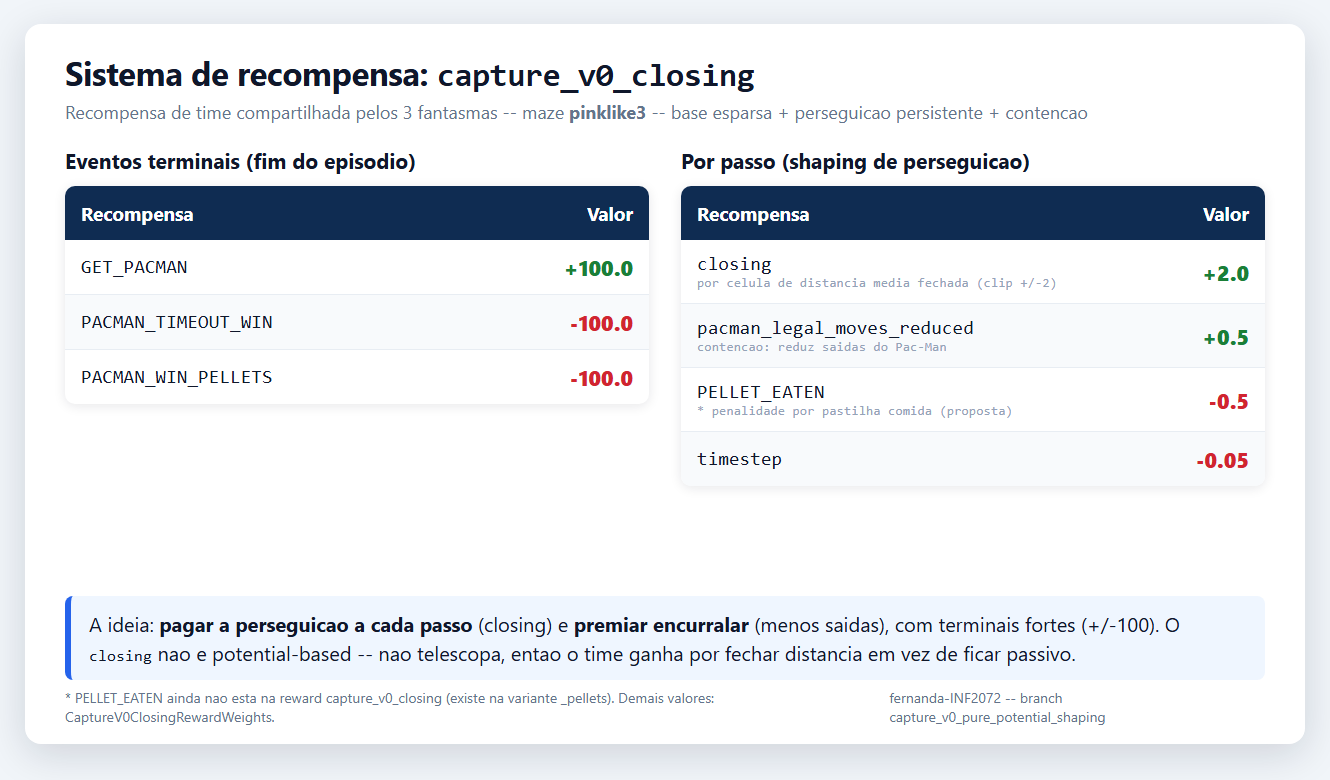
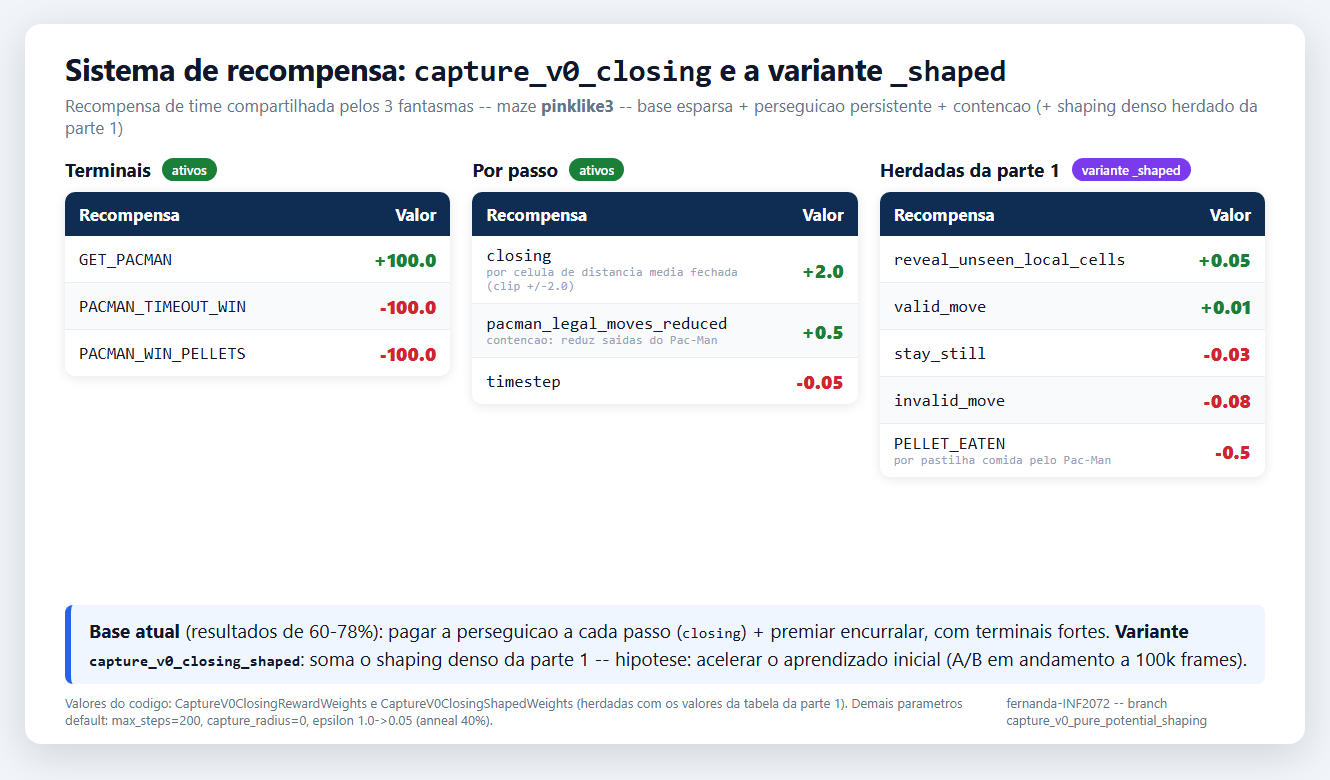
feat(rewards): capture_v0_closing_shaped variant + reward-table slide update
New A/B variant over capture_v0_closing that adds the part-1 dense shaping
terms with the part-1 table values: valid_move +0.01, invalid_move -0.08,
stay_still -0.03, reveal_unseen_local_cells +0.05, and per-pellet PELLET_EATEN
-0.5. Closing/containment/terminal weights identical to the base so the A/B
isolates the added shaping. Registered as reward id capture_v0_closing_shaped.
Verified: strategy loads, all new terms fire in a random episode, 124 tests pass.

Slide 000055 reworked to three columns: active terminal + per-step terms of the
current system, plus the inherited part-1 terms tagged as the _shaped variant;
scenario defaults (max_steps, capture_radius, epsilon) in the footer.

diff --git a/_output/communication/2026-07-02/communication-000055-reward-table-slide.html b/_output/communication/2026-07-02/communication-000055-reward-table-slide.html
@@ -3,33 +3,36 @@
 <head>
 <meta charset="utf-8">
 <meta name="viewport" content="width=device-width, initial-scale=1">
-<title>Sistema de recompensa -- capture_v0_closing</title>
+<title>Sistema de recompensa -- capture_v0_closing (+shaped)</title>
 <style>
   :root { color-scheme: light; }
   html,body { margin:0; background:#f1f5f9; font-family:'Segoe UI',system-ui,Arial,sans-serif; color:#0f172a; }
   .slide { width:1280px; height:720px; margin:24px auto; background:#fff; border-radius:16px;
            box-shadow:0 10px 40px rgba(15,23,42,.15); position:relative; overflow:hidden; }
-  .hdr { padding:26px 40px 0 40px; }
-  h1 { margin:0; font-size:33px; letter-spacing:-.5px; }
-  .sub { margin:6px 0 0; font-size:18px; color:#64748b; }
-  .cols { display:flex; gap:32px; padding:22px 40px 0; }
+  .hdr { padding:24px 40px 0 40px; }
+  h1 { margin:0; font-size:31px; letter-spacing:-.5px; }
+  .sub { margin:5px 0 0; font-size:17px; color:#64748b; }
+  .cols { display:flex; gap:22px; padding:18px 40px 0; align-items:flex-start; }
   .col { flex:1; }
-  .col h2 { margin:0 0 12px; font-size:21px; }
-  table { width:100%; border-collapse:collapse; font-size:21px; border-radius:10px; overflow:hidden;
+  .col h2 { margin:0 0 10px; font-size:19px; }
+  .col h2 .tag { font-size:13px; font-weight:600; color:#fff; border-radius:20px; padding:3px 10px; vertical-align:2px; margin-left:6px; }
+  .tag.on  { background:#1a7f37; }
+  .tag.new { background:#7c3aed; }
+  table { width:100%; border-collapse:collapse; font-size:19px; border-radius:10px; overflow:hidden;
           box-shadow:0 2px 12px rgba(15,23,42,.10); }
-  thead th { background:#0f2c52; color:#fff; font-weight:700; font-size:19px; padding:14px 16px; text-align:left; }
+  thead th { background:#0f2c52; color:#fff; font-weight:700; font-size:17px; padding:11px 14px; text-align:left; }
   thead th.v { text-align:right; }
-  td { padding:13px 16px; border-bottom:1px solid #e8edf3; }
+  td { padding:10px 14px; border-bottom:1px solid #e8edf3; }
   tbody tr:nth-child(even) { background:#f8fafc; }
   tbody tr:last-child td { border-bottom:none; }
-  .name { font-family:'Consolas','Courier New',monospace; font-size:19px; letter-spacing:.2px; }
+  .name { font-family:'Consolas','Courier New',monospace; font-size:16.5px; letter-spacing:.2px; }
   .val { text-align:right; font-weight:800; font-variant-numeric:tabular-nums; white-space:nowrap; }
   .pos { color:#1a7f37; }
   .neg { color:#d1242f; }
-  .note { font-size:13px; color:#94a3b8; display:block; }
-  .insight { position:absolute; left:40px; right:40px; bottom:64px; font-size:20px; line-height:1.45;
-             background:#eff6ff; border-left:6px solid #2563eb; padding:13px 18px; border-radius:8px; }
-  .foot { position:absolute; left:40px; right:40px; bottom:18px; font-size:14px; color:#64748b;
+  .note { font-size:12px; color:#94a3b8; display:block; }
+  .insight { position:absolute; left:40px; right:40px; bottom:60px; font-size:19px; line-height:1.42;
+             background:#eff6ff; border-left:6px solid #2563eb; padding:12px 18px; border-radius:8px; }
+  .foot { position:absolute; left:40px; right:40px; bottom:16px; font-size:13px; color:#64748b;
           display:flex; justify-content:space-between; }
   @media print { body{background:#fff} .slide{box-shadow:none;margin:0} }
 </style>
@@ -37,12 +40,12 @@
 <body>
   <div class="slide">
     <div class="hdr">
-      <h1>Sistema de recompensa: <span style="font-family:Consolas,monospace">capture_v0_closing</span></h1>
-      <p class="sub">Recompensa de time compartilhada pelos 3 fantasmas -- maze <b>pinklike3</b> -- base esparsa + perseguicao persistente + contencao</p>
+      <h1>Sistema de recompensa: <span style="font-family:Consolas,monospace">capture_v0_closing</span> e a variante <span style="font-family:Consolas,monospace">_shaped</span></h1>
+      <p class="sub">Recompensa de time compartilhada pelos 3 fantasmas -- maze <b>pinklike3</b> -- base esparsa + perseguicao persistente + contencao (+ shaping denso herdado da parte 1)</p>
     </div>
     <div class="cols">
       <div class="col">
-        <h2>Eventos terminais (fim do episodio)</h2>
+        <h2>Terminais <span class="tag on">ativos</span></h2>
         <table>
           <thead><tr><th>Recompensa</th><th class="v">Valor</th></tr></thead>
           <tbody>
@@ -53,23 +56,36 @@
         </table>
       </div>
       <div class="col">
-        <h2>Por passo (shaping de perseguicao)</h2>
+        <h2>Por passo <span class="tag on">ativos</span></h2>
         <table>
           <thead><tr><th>Recompensa</th><th class="v">Valor</th></tr></thead>
           <tbody>
-            <tr><td class="name">closing <span class="note">por celula de distancia media fechada (clip +/-2)</span></td><td class="val pos">+2.0</td></tr>
+            <tr><td class="name">closing <span class="note">por celula de distancia media fechada (clip +/-2.0)</span></td><td class="val pos">+2.0</td></tr>
             <tr><td class="name">pacman_legal_moves_reduced <span class="note">contencao: reduz saidas do Pac-Man</span></td><td class="val pos">+0.5</td></tr>
-            <tr><td class="name">PELLET_EATEN <span class="note">* penalidade por pastilha comida (proposta)</span></td><td class="val neg">-0.5</td></tr>
             <tr><td class="name">timestep</td><td class="val neg">-0.05</td></tr>
+          </tbody>
+        </table>
+      </div>
+      <div class="col">
+        <h2>Herdadas da parte 1 <span class="tag new">variante _shaped</span></h2>
+        <table>
+          <thead><tr><th>Recompensa</th><th class="v">Valor</th></tr></thead>
+          <tbody>
+            <tr><td class="name">reveal_unseen_local_cells</td><td class="val pos">+0.05</td></tr>
+            <tr><td class="name">valid_move</td><td class="val pos">+0.01</td></tr>
+            <tr><td class="name">stay_still</td><td class="val neg">-0.03</td></tr>
+            <tr><td class="name">invalid_move</td><td class="val neg">-0.08</td></tr>
+            <tr><td class="name">PELLET_EATEN <span class="note">por pastilha comida pelo Pac-Man</span></td><td class="val neg">-0.5</td></tr>
           </tbody>
         </table>
       </div>
     </div>
     <div class="insight">
-      A ideia: <b>pagar a perseguicao a cada passo</b> (closing) e <b>premiar encurralar</b> (menos saidas), com terminais fortes (+/-100). O <span class="name" style="font-size:16px">closing</span> nao e potential-based -- nao telescopa, entao o time ganha por fechar distancia em vez de ficar passivo.
+      <b>Base atual</b> (resultados de 60-78%): pagar a perseguicao a cada passo (<span class="name" style="font-size:15px">closing</span>) + premiar encurralar, com terminais fortes.
+      <b>Variante <span class="name" style="font-size:15px">capture_v0_closing_shaped</span></b>: soma o shaping denso da parte 1 -- hipotese: acelerar o aprendizado inicial (A/B em andamento a 100k frames).
     </div>
     <div class="foot">
-      <span>* PELLET_EATEN ainda nao esta na reward capture_v0_closing (existe na variante _pellets). Demais valores: CaptureV0ClosingRewardWeights.</span>
+      <span>Valores do codigo: CaptureV0ClosingRewardWeights e CaptureV0ClosingShapedWeights (herdadas com os valores da tabela da parte 1). Demais parametros default: max_steps=200, capture_radius=0, epsilon 1.0->0.05 (anneal 40%).</span>
       <span>fernanda-INF2072 -- branch capture_v0_pure_potential_shaping</span>
     </div>
   </div>

diff --git a/custom_environment/env/rewards/current.py b/custom_environment/env/rewards/current.py
@@ -992,6 +992,90 @@ class CaptureV0ClosingReward(CaptureV0Reward):
             terms.append(RewardTerm("PACMAN_WIN_PALLETS", w.pacman_win_pellets, "terminal"))
 
         return RewardResult(tuple(terms))
+
+
+@dataclass(frozen=True, slots=True)
+class CaptureV0ClosingShapedWeights:
+    # Base closing terms: identical to CaptureV0ClosingRewardWeights so the A/B
+    # against capture_v0_closing isolates the added movement/perception shaping.
+    get_pacman: float = 100.0
+    pacman_timeout_win: float = -100.0
+    pacman_win_pellets: float = -100.0
+    timestep: float = -0.05
+    closing_weight: float = 2.0
+    closing_clip: float = 2.0
+    pacman_legal_moves_reduced: float = 0.5
+    # Movement/perception shaping (values from the part-1 reward table).
+    valid_move: float = 0.01
+    invalid_move: float = -0.08
+    stay_still: float = -0.03
+    reveal_unseen_local_cells: float = 0.05
+    # Per-pellet penalty: charge the team every pellet Pacman eats, giving a
+    # dense urgency signal long before the terminal PACMAN_WIN_PALLETS fires.
+    pellet_eaten: float = -0.5
+
+
+class CaptureV0ClosingShaped(CaptureV0ClosingReward):
+    """capture_v0_closing + dense movement/perception shaping.
+
+    A/B variant over ``CaptureV0ClosingReward`` (identical closing/containment/
+    terminal weights) that adds the early-learning shaping terms from the part-1
+    reward design: per-ghost ``valid_move``/``invalid_move``/``stay_still``,
+    ``reveal_unseen_local_cells`` (exploration), and a per-pellet ``PELLET_EATEN``
+    penalty. Hypothesis: the dense per-step signal accelerates initial learning
+    (sample efficiency at ~100k frames) before the closing reward takes over.
+    """
+
+    strategy_id = "capture_v0_closing_shaped"
+
+    def __init__(
+        self,
+        weights: CaptureV0ClosingShapedWeights | None = None,
+    ) -> None:
+        super().__init__()
+        self.weights = weights or CaptureV0ClosingShapedWeights()
+        # State for _reveals_unseen_cells (the CaptureV0* chain does not init it).
+        self._seen_local_cells: dict[str, set[Position]] = {}
+
+    def reset(self, initial_context: RewardContext) -> None:
+        super().reset(initial_context)
+        self._seen_local_cells = {
+            ghost.ghost_id: self._local_cells(
+                ghost.current_position,
+                initial_context.ghost_view_radius,
+            )
+            for ghost in initial_context.ghosts
+        }
+
+    def compute(self, context: RewardContext) -> RewardResult:
+        result = super().compute(context)
+        w = self.weights
+        terms = list(result.terms)
+
+        for ghost in context.ghosts:
+            moved = ghost.previous_position != ghost.current_position
+            if not moved:
+                if ghost.invalid_move:
+                    terms.append(RewardTerm("invalid_move", w.invalid_move))
+                else:
+                    terms.append(RewardTerm("stay_still", w.stay_still))
+            else:
+                terms.append(RewardTerm("valid_move", w.valid_move))
+            if self._reveals_unseen_cells(ghost, context.ghost_view_radius):
+                terms.append(
+                    RewardTerm(
+                        "reveal_unseen_local_cells",
+                        w.reveal_unseen_local_cells,
+                    )
+                )
+
+        pellets = context.pellets_eaten_this_step
+        if pellets > 0:
+            terms.append(RewardTerm("PELLET_EATEN", w.pellet_eaten * pellets))
+
+        return RewardResult(tuple(terms))
+
+
 class CaptureV0PurePotentialShapingPellets(CaptureV0PurePotentialShaping):
     """Pure potential shaping variant with a per-pellet Pacman penalty."""
 

diff --git a/custom_environment/env/rewards/loader.py b/custom_environment/env/rewards/loader.py
@@ -27,6 +27,9 @@ _REWARD_CLASS_BY_ID = {
     "capture_v0_closing": (
         "custom_environment.env.rewards.current:CaptureV0ClosingReward"
     ),
+    "capture_v0_closing_shaped": (
+        "custom_environment.env.rewards.current:CaptureV0ClosingShaped"
+    ),
     "capture_v0_sparse_control": (
         "custom_environment.env.rewards.current:CaptureV0SparseControl"
     ),
